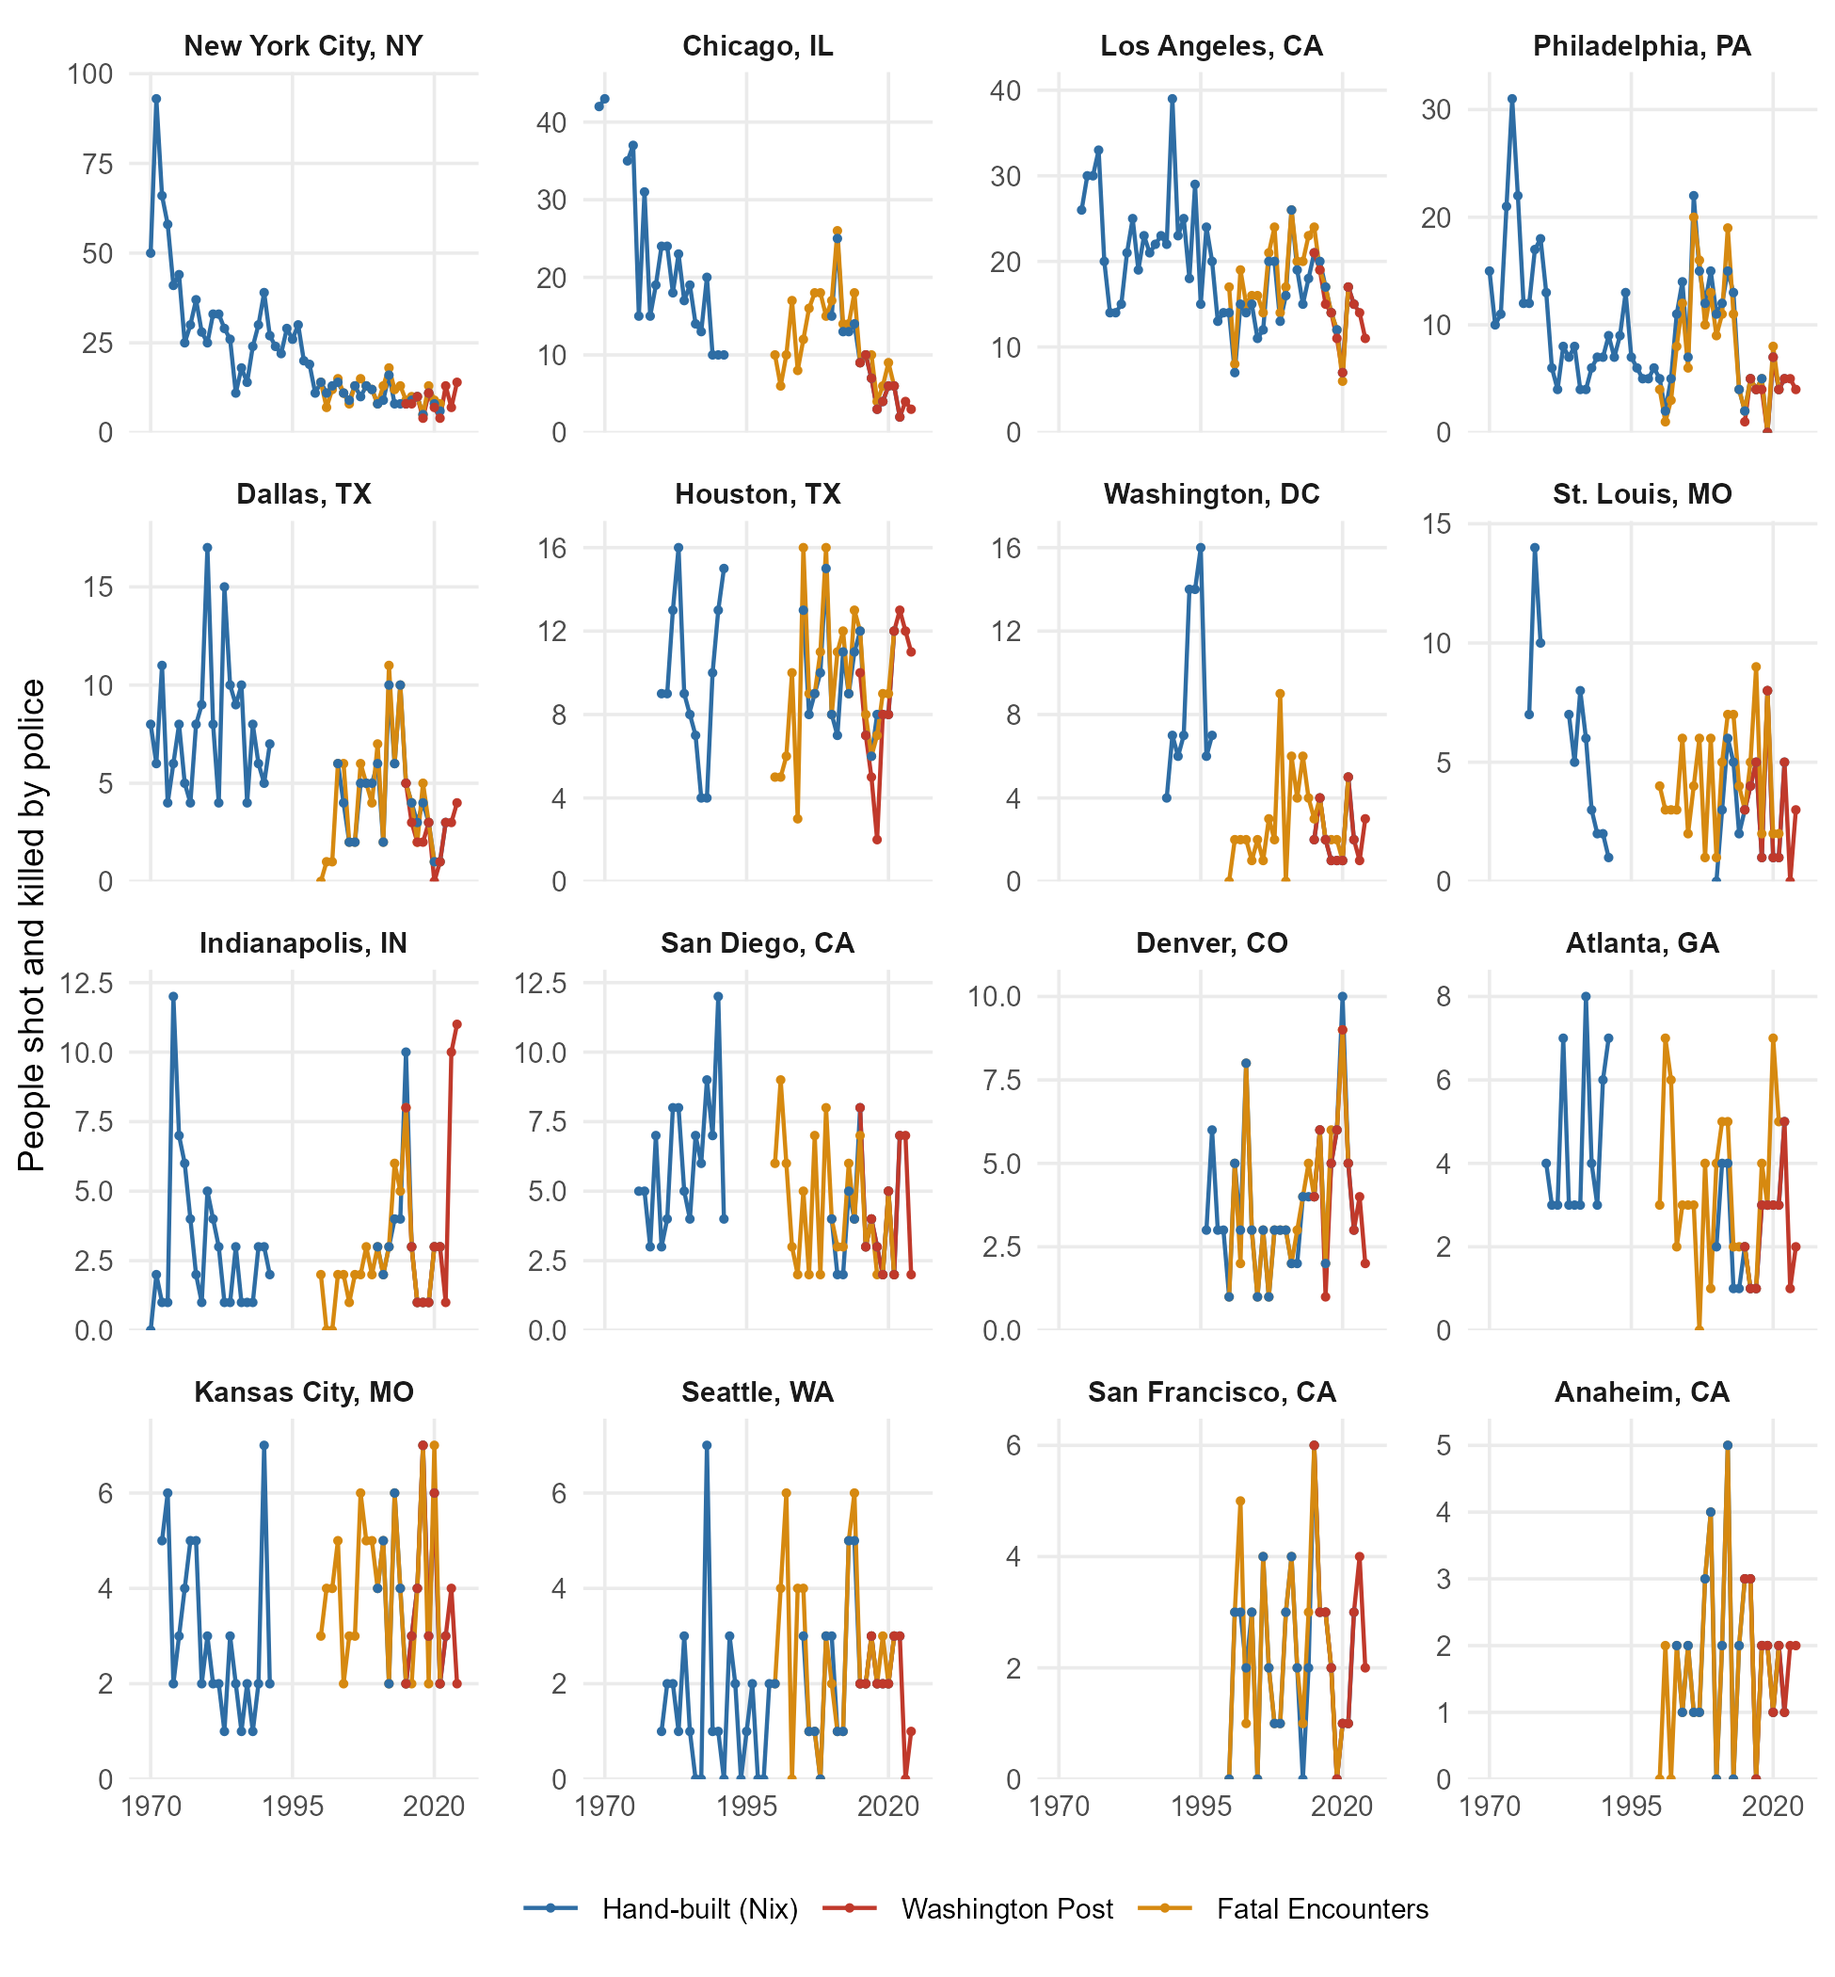
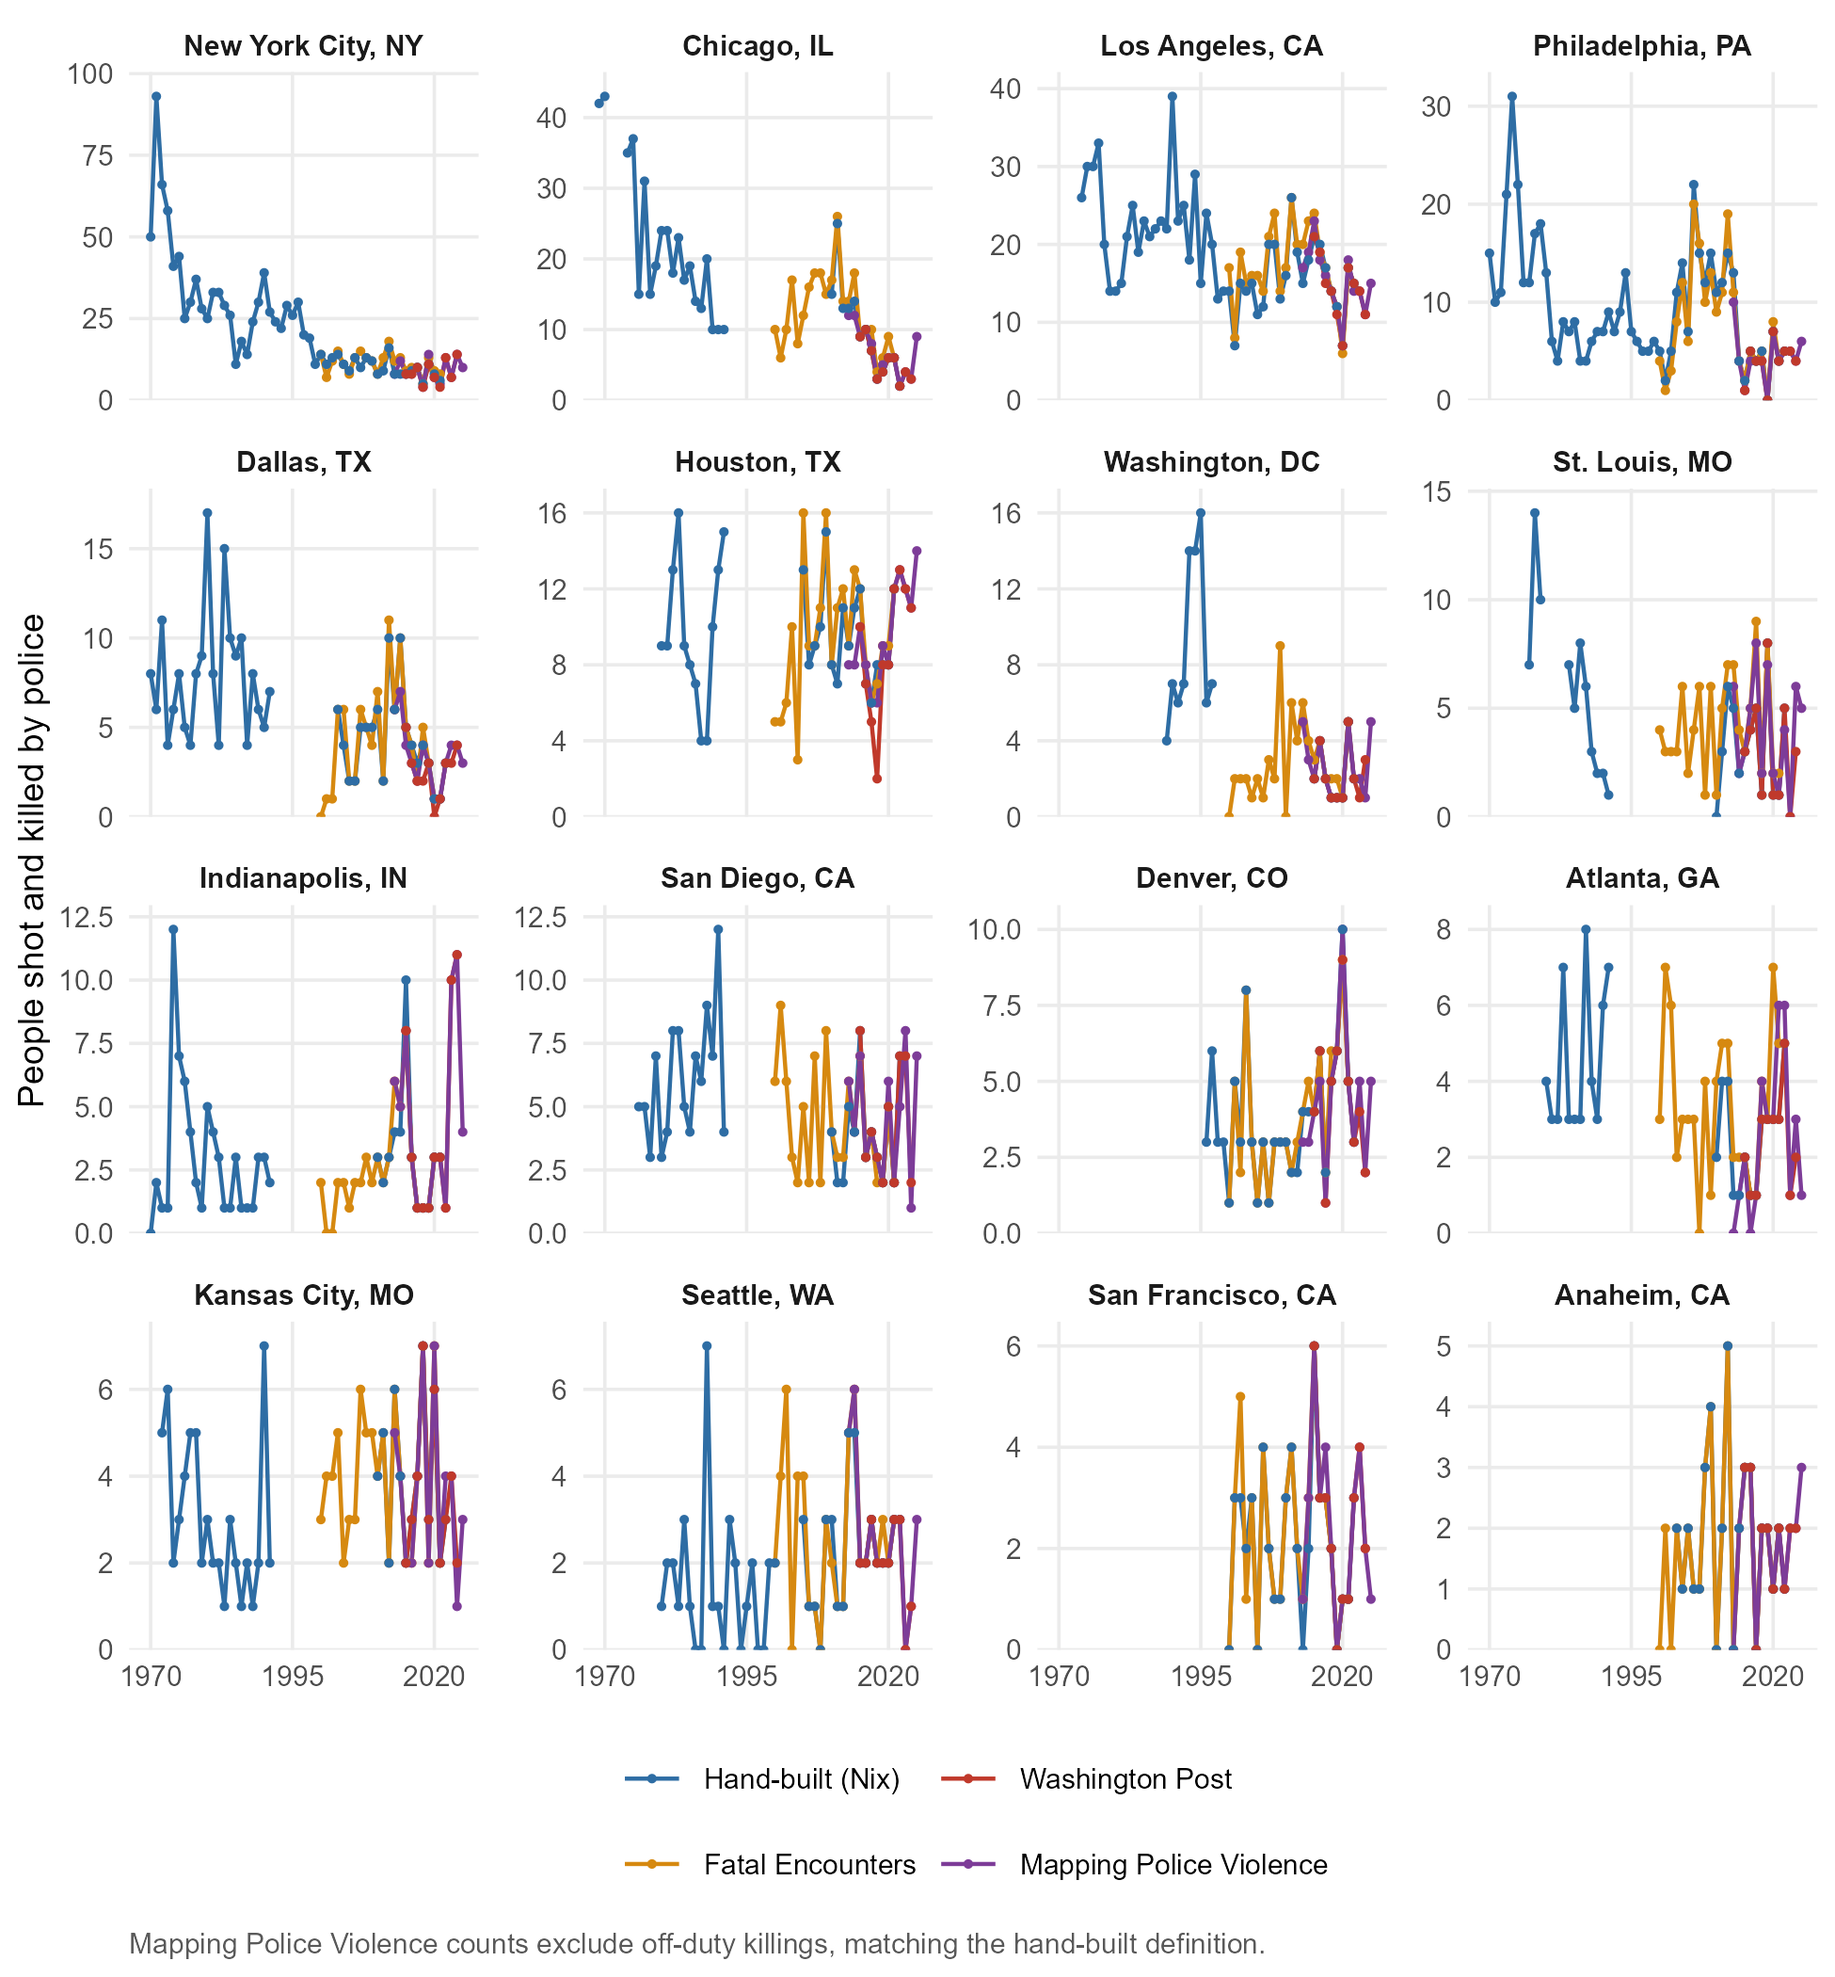
Show MPV in the sixteen-cities and coverage figures (#5)
Adds Mapping Police Violence (on-duty count, matching the hand-built
definition) as a fourth series, with a palette-checked purple.

diff --git a/README.md b/README.md
@@ -75,7 +75,7 @@ Where they overlap, the sources mostly agree, though FE runs higher than WaPo:
 
 Most agency-years are zero in both sources, so the last column, which drops agency-years where both are zero, is the tougher test. Agencies that WaPo lists under several ORIs (mostly state police) are left out of these comparisons. MPV's gap against the hand-built counts shifts over time: about 10% below in 2013–15 and 3–9% above in 2020–22. This is consistent with MPV recording a growing share of deaths over its life, and it's why the trend figures prefer WaPo where WaPo exists. [`output/tables/source_agreement.csv`](output/tables/source_agreement.csv) also compares MPV with WaPo and FE, and has each comparison restricted to the years all three sources cover (2015–2021). Agencies where the sources disagree are listed, largest gap first, in [`output/tables/source_disagreements.csv`](output/tables/source_disagreements.csv).
 
-![Sixteen large cities, three sources](output/figures/sixteen_cities.png)
+![Sixteen large cities, four sources](output/figures/sixteen_cities.png)
 
 ## Coverage
 
